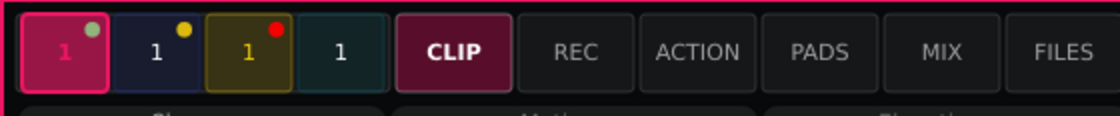
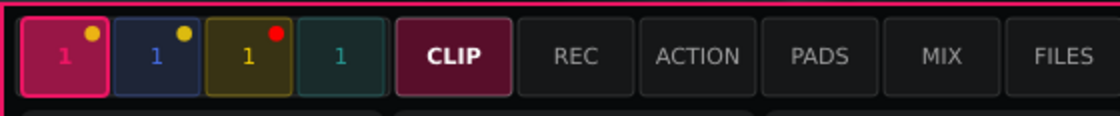
docs(user): the Motion pictures show the sphere as it now stands
"die bilder in den docs sind noch nicht aktuell"

Five screenshots taken fresh on the device: the display, the MIX page on its
own and in full, the mixer overlay (now down to its FREQ and RES labels), and
the channel keys with their signal dots, whose numbers wear the channel's
colour now. The dots were driven with send-vu.py for the picture.

The paragraph under the display said the speakers were four dark shapes. It
describes what is there: the braid with the blob inside it, the towers on a
floor below the listener, lightning that thickens on the loudest speaker and
stops in silence, ball lightning off the subs, and the view ball -- dragged,
not SHIFT and a finger on the sphere, which the code gave up.

Claude-Session: https://claude.ai/code/session_0182YSZ2A5Ynsj7q3v6V5i5N

diff --git a/src/user/a3motion.md b/src/user/a3motion.md
@@ -48,10 +48,22 @@ middle — it fills as the bar runs — and the MIX key on the right. It carried
 nine level meters for two days and they made the one band that is always in
 view the busiest thing on the screen.
 
-The middle band is the room seen from above. Each channel is a coloured blob;
-drag one and its sound moves with it. The four dark shapes at the corners are
-the speakers, lit by what they are actually playing, and the field around the
-sphere shows where the energy in the room is coming from.
+The middle band is the room seen from straight above, with you — the listener —
+in the middle at ear height. Each channel is a coloured blob sitting where its
+sound is; it swells and throws sparks with that channel's input level, and
+dragging it moves the sound. A playing clip draws its trajectory as a braid of
+three strands of plasma with the blob travelling inside it. What runs behind
+the sphere is drawn darker than what runs in front of it.
+
+At the four corners stand the speakers, each a tower of three tops over four
+subs, on a dark floor below your feet. Lightning comes out of the tops and
+flickers across the floor towards the middle: thicker, and more of it, on the
+speaker that is playing loudest, and none at all when the room is silent. The
+subs throw ball lightning with the bass. The field around the sphere shows
+where the energy in the room is coming from.
+
+The small ball in the top right corner is the view. Drag on it to tilt and
+turn the room; a double tap on it takes the view back to straight above.
 
 The four coloured cells at the left of the tab row are the channels. Each
 carries a **signal dot** in its top right corner: the channel's input level,
